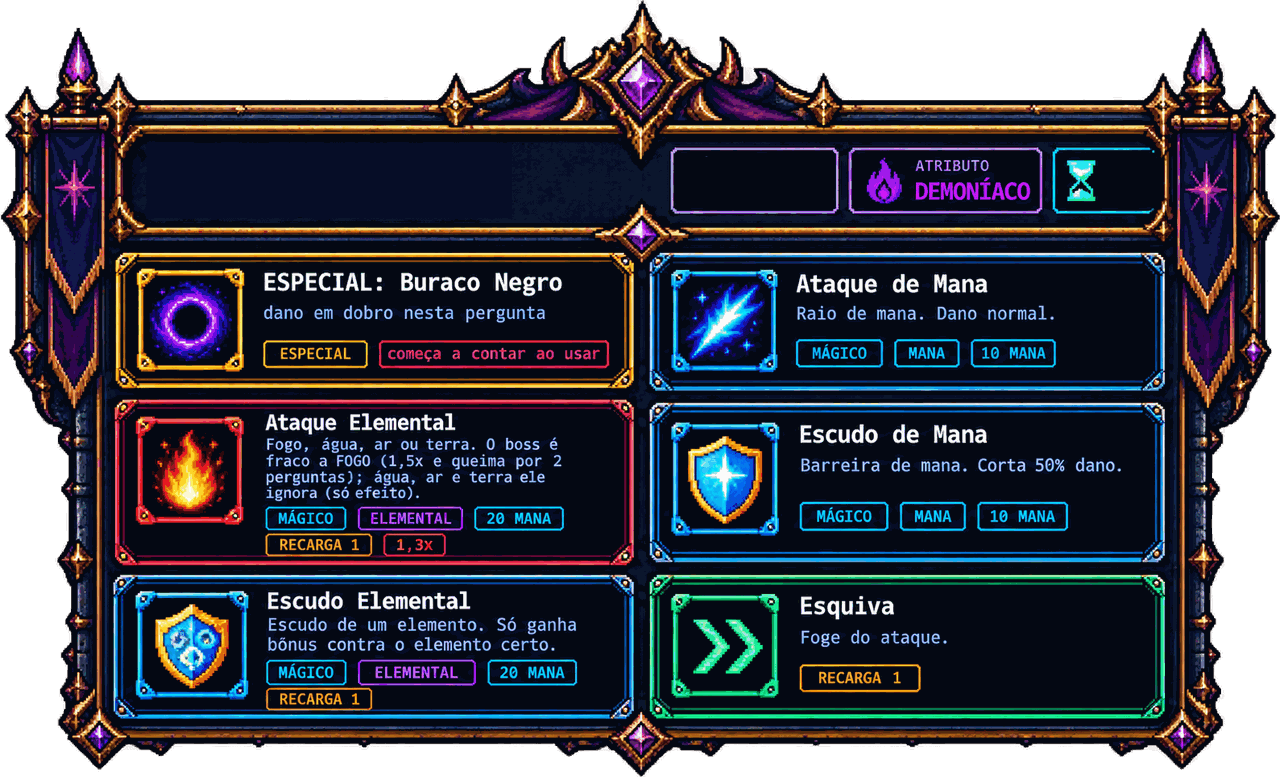
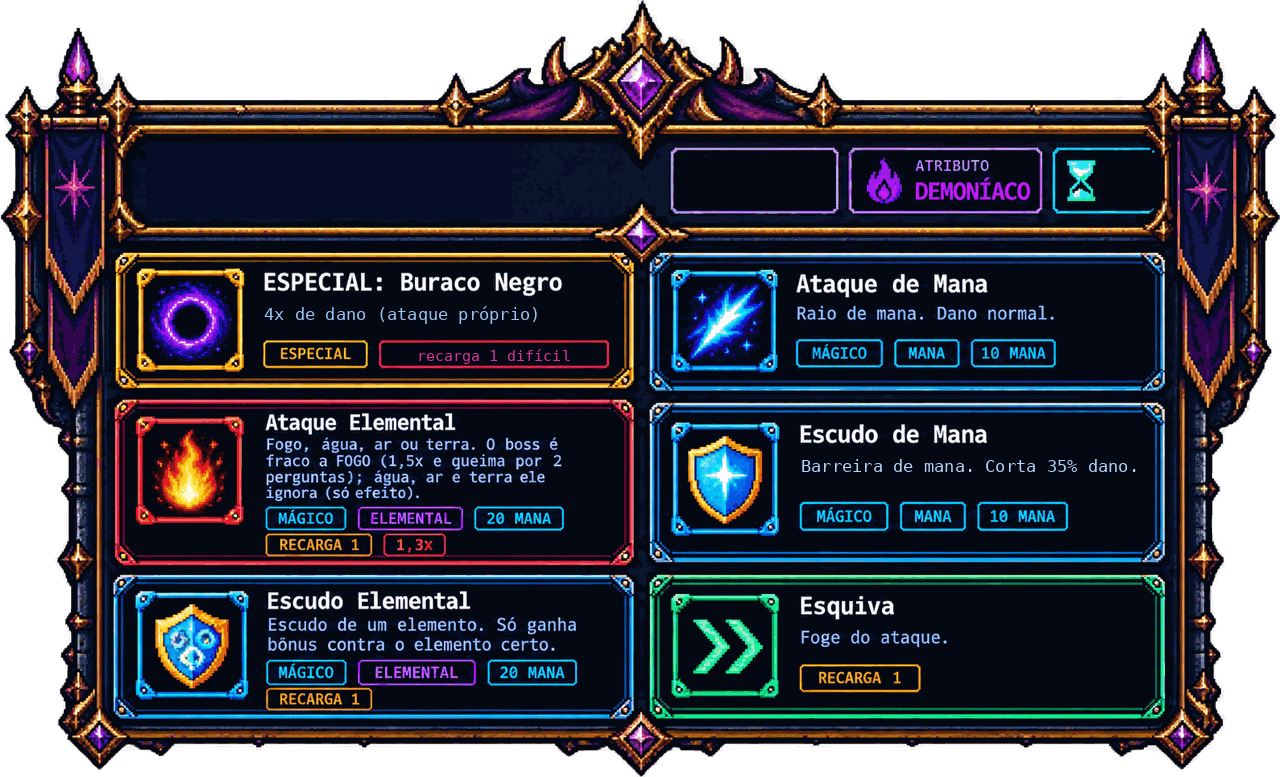
v93: niveis de dano/defesa por classe, Buraco Negro 4x, textos dos menus atualizados, boss 700
Claude-Session: https://claude.ai/code/session_01YFC38PcyDKAfPNhJ7r1cKG

Changed region(s): [[0.2188, 0.3707, 0.4688, 0.4633], [0.625, 0.5869, 0.875, 0.6178]]

diff --git a/sw.js b/sw.js
@@ -1,4 +1,4 @@
-const CACHE='bd1-rpg-v92';
+const CACHE='bd1-rpg-v93';
 const ASSETS=['./','./index.html','./game.html','./lobby.js','./bag_panel.png','./bag_button.png','./menu_meta.js','./menu_assassin.png','./menu_mage.png','./menu_knight.png','./menu_tank.png','./menu_elem.png','./icon_tipo_sword.png','./lobby.css','./select_plate.webp','./char_mage.webp','./char_knight.webp','./char_tank.webp','./char_assassin.webp','./panel_mage.webp','./panel_knight.webp','./panel_tank.webp','./panel_assassin.webp','./style.css','./app.js','./anim.js','./mage.js','./cleric.js','./tank.js','./knight.js','./boss.js','./boss/meta.json','./boss/B_1.png','./boss/B_2.png','./boss/B_3.png','./boss/B_4.png','./boss/B_5.png','./boss/B_6.png','./boss/B_7.png','./boss/B_8.png','./boss/B_9.png','./boss/B_10.png','./boss/B_11.png','./boss/B_12.png','./fxsoft.js','./knight/K1_1.png','./knight/K1_10.png','./knight/K1_11.png','./knight/K1_13.png','./knight/K1_14.png','./knight/K1_15.png','./knight/K1_19.png','./knight/K1_2.png','./knight/K1_20.png','./knight/K1_21.png','./knight/K1_22.png','./knight/K1_23.png','./knight/K1_24.png','./knight/K1_25.png','./knight/K1_26.png','./knight/K1_27.png','./knight/K1_28.png','./knight/K1_29.png','./knight/K1_30.png','./knight/K1_31.png','./knight/K1_32.png','./knight/K1_35.png','./knight/K1_37.png','./knight/K1_4.png','./knight/K1_41.png','./knight/K1_42.png','./knight/K1_44.png','./knight/K1_45.png','./knight/K1_46.png','./knight/K1_49.png','./knight/K1_5.png','./knight/K1_6.png','./knight/K1_7.png','./knight/K1_8.png','./knight/K1_9.png','./knight/K2_10.png','./knight/K2_11.png','./knight/K2_13.png','./knight/K2_14.png','./knight/K2_15.png','./knight/K2_16.png','./knight/K2_17.png','./knight/K2_18.png','./knight/K2_19.png','./knight/K2_2.png','./knight/K2_20.png','./knight/K2_21.png','./knight/K2_22.png','./knight/K2_23.png','./knight/K2_24.png','./knight/K2_25.png','./knight/K2_26.png','./knight/K2_28.png','./knight/K2_29.png','./knight/K2_3.png','./knight/K2_30.png','./knight/K2_32.png','./knight/K2_33.png','./knight/K2_34.png','./knight/K2_35.png','./knight/K2_37.png','./knight/K2_38.png','./knight/K2_39.png','./knight/K2_4.png','./knight/K2_41.png','./knight/K2_42.png','./knight/K2_43.png','./knight/K2_44.png','./knight/K2_45.png','./knight/K2_46.png','./knight/K2_5.png','./knight/K2_6.png','./knight/K2_7.png','./knight/K2_8.png','./knight/K2_9.png','./knight/K3_1.png','./knight/K3_10.png','./knight/K3_11.png','./knight/K3_12.png','./knight/K3_13.png','./knight/K3_14.png','./knight/K3_15.png','./knight/K3_16.png','./knight/K3_17.png','./knight/K3_18.png','./knight/K3_2.png','./knight/K3_20.png','./knight/K3_21.png','./knight/K3_22.png','./knight/K3_23.png','./knight/K3_24.png','./knight/K3_25.png','./knight/K3_26.png','./knight/K3_27.png','./knight/K3_28.png','./knight/K3_29.png','./knight/K3_3.png','./knight/K3_30.png','./knight/K3_31.png','./knight/K3_32.png','./knight/K3_33.png','./knight/K3_34.png','./knight/K3_35.png','./knight/K3_36.png','./knight/K3_37.png','./knight/K3_38.png','./knight/K3_39.png','./knight/K3_4.png','./knight/K3_40.png','./knight/K3_41.png','./knight/K3_42.png','./knight/K3_43.png','./knight/K3_44.png','./knight/K3_45.png','./knight/K3_46.png','./knight/K3_47.png','./knight/K3_48.png','./knight/K3_5.png','./knight/K3_6.png','./knight/K3_7.png','./knight/K3_8.png','./knight/K3_9.png','./knight/fx_ice.png','./knight/fx_rocksA.png','./knight/fx_rock1.png','./knight/fx_rock2.png','./knight/fx_rock3.png','./knight/fx_rock4.png','./knight/fx_slash.png','./knight/meta.json','./clr/at1.png','./clr/at2.png','./clr/at3.png','./clr/bg1.png','./clr/bg2.png','./clr/bg3.png','./clr/bg4.png','./clr/bp1.png','./clr/bp2.png','./clr/bp3.png','./clr/br1.png','./clr/br2.png','./clr/br3.png','./clr/br4.png','./clr/br5.png','./clr/br6.png','./clr/bt1.png','./clr/bt2.png','./clr/bt3.png','./clr/bt4.png','./clr/d1.png','./clr/d2.png','./clr/d3.png','./clr/d4.png','./clr/dg1.png','./clr/dg2.png','./clr/dg3.png','./clr/dn1.png','./clr/dn2.png','./clr/dn3.png','./clr/ds1.png','./clr/ex1.png','./clr/fx_aura.png','./clr/fx_burst.png','./clr/fx_cross1.png','./clr/fx_lotus.png','./clr/fx_pillar.png','./clr/fx_pillar2.png','./clr/fx_ring1.png','./clr/fx_ring2.png','./clr/fx_ring3.png','./clr/fx_star1.png','./clr/fx_star2.png','./clr/fx_star3.png','./clr/fx_star4.png','./clr/fx_streak1.png','./clr/fx_streak2.png','./clr/fx_streak3.png','./clr/fx_sunstar.png','./clr/hat1.png','./clr/hat2.png','./clr/idle1.png','./clr/meta.json','./clr/pr1.png','./clr/pr2.png','./clr/stf.png','./clr/ult1.png','./clr/ult2.png','./clr/v1.png','./clr/v2.png','./mage3/air.png','./mage3/atk1.png','./mage3/atk2.png','./mage3/atk3.png','./mage3/bh1.png','./mage3/bh2.png','./mage3/castdef.png','./mage3/defair.png','./mage3/defearth.png','./mage3/deffire.png','./mage3/defmana.png','./mage3/defwater.png','./mage3/dodge1.png','./mage3/dodge2.png','./mage3/dodge3.png','./mage3/dodge4.png','./mage3/earth.png','./mage3/fire.png','./mage3/fx_air_swirl.png','./mage3/fx_bh_big.png','./mage3/fx_bh_big2.png','./mage3/fx_bh_small.png','./mage3/fx_bh_spikes.png','./mage3/fx_bolt.png','./mage3/fx_comet.png','./mage3/fx_cross.png','./mage3/fx_crystal.png','./mage3/fx_earth_spikes.png','./mage3/fx_fire_fall.png','./mage3/fx_mana_aura.png','./mage3/fx_orb_blue.png','./mage3/fx_orb_orange.png','./mage3/fx_orb_red.png','./mage3/fx_orbb.png','./mage3/fx_ring_floor.png','./mage3/fx_rock.png','./mage3/fx_rocks.png','./mage3/fx_star_big.png','./mage3/fx_star_small.png','./mage3/fx_water_pillar.png','./mage3/fx_whirl.png','./mage3/idle1.png','./mage3/idle2.png','./mage3/idle3.png','./mage3/idle4.png','./mage3/meta.json','./mage3/spin1.png','./mage3/spinwide.png','./mage3/stars.png','./mage3/swingf.png','./mage3/swingl.png','./mage3/swingr.png','./mage3/water.png','./anim/manifest.json','./spr_mage.webp','./spr_knight.webp','./spr_tank.webp','./spr_assassin.webp','./spr_boss.webp','./game_clean.png','./game_nohud.png','./hud_mage.png','./hud_knight.png','./hud_tank.png','./hud_assassin.png','./question_panel.png','./icon_attack.png','./icon_coin.png','./manifest.webmanifest','./potion_hp.png','./potion_mana.png','./tank/a_bub.png','./tank/a_cr.png','./tank/a_dust.png','./tank/a_hh.png','./tank/a_i1.png','./tank/a_i2.png','./tank/a_lo.png','./tank/a_rd.png','./tank/a_rl1.png','./tank/a_rl2.png','./tank/a_s1.png','./tank/a_s2.png','./tank/a_sw.png','./tank/a_swl.png','./tank/d_a1.png','./tank/d_a2.png','./tank/d_a3.png','./tank/d_a4.png','./tank/d_e1.png','./tank/d_e2.png','./tank/d_e3.png','./tank/d_e4.png','./tank/d_f1.png','./tank/d_f2.png','./tank/d_f3.png','./tank/d_h1.png','./tank/d_h2.png','./tank/d_h3.png','./tank/d_h4.png','./tank/d_i1.png','./tank/d_i2.png','./tank/d_i3.png','./tank/d_m1.png','./tank/d_m2.png','./tank/d_m3.png','./tank/d_m4.png','./tank/d_p1.png','./tank/d_p3.png','./tank/d_u1.png','./tank/d_u2.png','./tank/fx_bring.png','./tank/fx_bspike.png','./tank/fx_earth.png','./tank/fx_rockburst.png','./tank/meta.json','./tank/n1.png','./tank/n2.png','./tank/n3.png','./tank/p1.png','./tank/tA.png','./tank/tB.png','./tank/tC.png','./tank/v1.png','./tank/v2.png','./tank/v3.png','./tank/v4.png'];
 // Tudo em cache (abre instantâneo, até offline). Em segundo plano o SW confere a rede (requisição condicional, barata);
 // se algum arquivo mudou, atualiza o cache e avisa a página, que recarrega sozinha (menu) ou mostra o aviso (jogo).

diff --git a/app.js b/app.js
@@ -34,18 +34,20 @@ const ITEMS = {
 const HERO_ORDER = ['mage','knight','tank','assassin'];
 const HERO_COLOR = {mage:'#4d8dff', knight:'#d9e6ff', tank:'#ff9d3d', assassin:'#ff3d5c'};
 const HERO_X = {mage:10.3, knight:33.2, tank:63.5, assassin:89.7};   // centro do herói (% da largura)
-const BOSS_MAX_HP = 650, HERO_MAX_HP = 100;
+const BOSS_MAX_HP = 700, HERO_MAX_HP = 100;
+// Dano base por herói: Cleriga baixo, Maga/Tanque médio, Guerreiro alto. Fraqueza certa (fogo da Maga) = alto; Buraco Negro = extremamente alto.
+const HERO_BASE = {mage:14, knight:21, tank:14, assassin:10};
 const ATTACK_DAMAGE = 14;          // dano do ataque básico (quando acertou a pergunta)
 const DEFEND_REDUCTION = 0.5;      // defesa reduz o dano pela metade
 const RAGE_MAX = 5, RAGE_DODGE = 1, RAGE_WASTED = 5;   // fúria: esquivar após errar +1; defender/esquivar após ACERTAR +5 (enche)
 const QUESTION_SECONDS = {1:25, 2:30, 3:35}, ACTION_SECONDS = 25;   // tempo para responder: fácil 25s, média 30s, difícil 35s
 const ULT_NAME = {mage:'Buraco Negro', knight:'Berserk', tank:'Provocação', assassin:'Luz Sagrada'};
 const ULT_ICON = {mage:'orb', knight:'sword2', tank:'hammer2', assassin:'cross'};
-const ULT_INFO = {mage:'dano direto de 3,5x o dano base no boss; recarga: não volta na próxima pergunta difícil, só na seguinte (se acertarem)', knight:'ataca mesmo errando, com 1,5x de dano, e leva menos dano por 2 perguntas', tank:'todo o dano do boss vai nele (inclusive metade da Onda Sombria dos aliados), com defesa dobrada, por 2 perguntas', assassin:'revive ou cura um herói'};
+const ULT_INFO = {mage:'dano direto de 4x o dano base no boss; recarga: não volta na próxima pergunta difícil, só na seguinte (se acertarem)', knight:'ataca mesmo errando, com 1,5x de dano, e leva menos dano por 2 perguntas', tank:'todo o dano do boss vai nele (inclusive metade da Onda Sombria dos aliados), com defesa dobrada, por 2 perguntas', assassin:'revive ou cura um herói'};
 // ===== Habilidades especiais do boss (cada uma tem aviso na tela e uma resposta dos heróis) =====
 const PREP_CHANCE = .2, PREP_MULT = 1.5;                // Preparando Habilidade: sorteada (1 em 5 rodadas); a rodada seguinte tem golpes +50% (defender corta pela metade)
 const TELE_CHANCE = 1 / 6, TELE_FROM = 4, TELE_DMG = 20, STUN_MULT = 1.25;   // Teleporte: depois da rodada 4; ESQUIVA anula e atordoa o boss (+25% de dano nele na rodada)
-const BH_MULT = 3.5;   // Buraco Negro: dano próprio de 3,5x o dano base (como o fogo dá 1,5x)
+const BH_MULT = 4;   // Buraco Negro: dano próprio de 4x o dano base da Maga (56)
 const THRUST_CD = 3, TELE_CD = 2;   // recarga em perguntas (contando a do uso): Estocada fica 2 perguntas sem sair, Teleporte 1
 const THRUST_DMG = 24, ENRAGE_AOE = 2;                  // Estocada (ignora Provocação/Proteção); Enfurecer: Onda Sombria +2
 const HERO_WX = k => HERO_X[k] * 10.24;                 // x do herói no mundo 1024x1536
@@ -77,8 +79,8 @@ const SKILLS = {
   mage:[
     {id:'mana_atk', kind:'atk', name:'Ataque de Mana', desc:'Raio de mana. Dano normal.', mana:10, cd:0, mult:1},
     {id:'elem_atk', kind:'atk', name:'Ataque Elemental', desc:'Fogo, água, ar ou terra. O boss é fraco a FOGO (1,5x e queima por 2 perguntas); água, ar e terra ele ignora (só efeito).', mana:20, cd:1, mult:1.3, elem:true},
-    {id:'mana_def', kind:'def', name:'Escudo de Mana', desc:'Barreira de mana. Corta 50% do dano.', mana:10, cd:0, reduce:.5},
-    {id:'elem_def', kind:'def', name:'Escudo Elemental', desc:'Escudo de um elemento. Só ganha bônus contra o elemento certo.', mana:20, cd:1, reduce:.5, bonus:.65, elem:true},
+    {id:'mana_def', kind:'def', name:'Escudo de Mana', desc:'Barreira de mana. Corta 35% do dano.', mana:10, cd:0, reduce:.35},
+    {id:'elem_def', kind:'def', name:'Escudo Elemental', desc:'Escudo de um elemento. Só ganha bônus contra o elemento certo.', mana:20, cd:1, reduce:.35, bonus:.55, elem:true},
     {id:'dodge', kind:'dodge', name:'Esquiva', desc:'Foge do ataque.', mana:0, cd:1}
   ],
   knight:[
@@ -92,7 +94,7 @@ const SKILLS = {
     {id:'atk', kind:'atk', name:'Ataque Normal', desc:'Golpe de martelo. Dano normal.', mana:0, cd:0, mult:1},
     {id:'super', kind:'atk', name:'Ataque Super Pesado', desc:'2x o dano normal e deixa o boss desnorteado na pergunta seguinte (+25% de dano nele, sem habilidades especiais).', mana:20, cd:3, mult:2},
     {id:'guard', kind:'util', name:'Proteção Específica', desc:'Escudo sobre 1 herói: o dano dele vai para o Tanque, com 40% a menos.', mana:20, cd:2, target:true},
-    {id:'def', kind:'def', name:'Defesa', desc:'Ergue o escudo. Corta 50% do dano.', mana:0, cd:0, reduce:.5},
+    {id:'def', kind:'def', name:'Defesa', desc:'Ergue o escudo. Corta 65% do dano.', mana:0, cd:0, reduce:.65},
     {id:'dodge', kind:'dodge', name:'Esquiva', desc:'Foge do ataque.', mana:0, cd:1}
   ],
   assassin:[
@@ -589,7 +591,7 @@ async function activateUlt(k){
   showBanner(`${GROUPS[k]}: ${ULT_NAME[k].toUpperCase()}!`, note);
   const tx = cleTarget ? HERO_X[cleTarget] / 100 * 1024 : null;
   const ultPl = A.play(k, 'ult', cleTarget ? {tx, ty:1098} : {}); A.sayRandom(k, 'ult', 1);
-  if (k === 'mage') { await wait(3000); await heroAttack(k, Math.round(ATTACK_DAMAGE * BH_MULT), '#b36bff', true); state.ultCd.mage = 1; }
+  if (k === 'mage') { await wait(3000); await heroAttack(k, Math.round(HERO_BASE.mage * BH_MULT), '#b36bff', true); state.ultCd.mage = 1; }
   else if (k === 'knight') { b.bers = 2; b.tired = 0; }
   else if (k === 'tank') b.taunt = 2;
   else {
@@ -772,7 +774,7 @@ async function playRound(){
         const t = act.target; sub = `passou a vez para ${GROUPS[t]}`;
         showBanner(`${nm}: ${sk.name}`, sub); await wait(1100);
         A.play(k, 'pass'); A.sayRandom(k, 'pass', .6);
-        if (correct[t] && state.heroes[t].hp > 0) { showRing(t); await doAttack(t, 'melee', null, Math.round(ATTACK_DAMAGE * 1.5)); } else floatText(HERO_X[t], 56, 'ERROU!', '#ff6b81');
+        if (correct[t] && state.heroes[t].hp > 0) { showRing(t); await doAttack(t, 'melee', null, Math.round(HERO_BASE[t] * 1.5)); } else floatText(HERO_X[t], 56, 'ERROU!', '#ff6b81');
         renderHud(); await wait(700); hideBanner(); hideRing();
         if (state.bossHp <= 0) return endGame(true);
         continue;
@@ -780,7 +782,7 @@ async function playRound(){
       if (sk.kind === 'atk') {
         const bers = k === 'knight' && state.buff.bers > 0;
         if (ok || bers) {
-          dmg = Math.round(ATTACK_DAMAGE * sk.mult); sub = ok ? 'acertou e atacou!' : 'errou, mas o Berserk atacou!';
+          dmg = Math.round(HERO_BASE[k] * sk.mult); sub = ok ? 'acertou e atacou!' : 'errou, mas o Berserk atacou!';
           if (sk.elem && el && BOSS.immune.includes(el)) { dmg = 0; sub = `${ELEMENTS[el].name}: o boss é IMUNE!`; }
           else if (sk.elem && el && BOSS.weak.includes(el)) { dmg = Math.round(dmg * BOSS_WEAK_MULT); state.burn = BURN_TURNS; sub += ` ${ELEMENTS[el].name}: o boss é FRACO! ${String(BOSS_WEAK_MULT).replace('.', ',')}x e fica QUEIMANDO por ${BURN_TURNS} perguntas.`; }
           else if (sk.elem && el) { const r = applyMark(el); if (r) { dmg += r.dmg; sub += ` ${r.name}! +${r.dmg}`; if (r.rage) state.rage = Math.max(0, state.rage + r.rage); } else sub += ` Marca de ${ELEMENTS[el].name.toLowerCase()}.`; }

diff --git a/tools/sim_boss.py b/tools/sim_boss.py
@@ -1,13 +1,14 @@
 # Simulador Monte-Carlo do combate (espelha as regras de app.js). Uso: python3 tools/sim_boss.py [N]
 import random, sys, statistics as st
-P = dict(boss_hp=650, prep=.2, prep_mult=1.5, tele=1/6, tele_from=4, tele_dmg=20, stun=1.25, thrust=24, enr_aoe=2, new=True, hard_acc=-.2, easy_acc=.12)
+P = dict(boss_hp=700, prep=.2, prep_mult=1.5, tele=1/6, tele_from=4, tele_dmg=20, stun=1.25, thrust=24, enr_aoe=2, new=True, hard_acc=-.2, easy_acc=.12)
 DIFF = {1:(18,3), 2:(32,5), 3:(50,9)}
 SK = {
- 'mage':[('mana_atk','atk',10,0,1),('elem_atk','atk',20,1,1.3),('mana_def','def',10,0,.5),('elem_def','def',20,1,.5),('dodge','dodge',0,1,0)],
+ 'mage':[('mana_atk','atk',10,0,1),('elem_atk','atk',20,1,1.3),('mana_def','def',10,0,.35),('elem_def','def',20,1,.55),('dodge','dodge',0,1,0)],
  'knight':[('atk','atk',0,0,1),('heavy','atk',15,1,1.5),('def','def',0,0,.5),('dodge','dodge',0,1,0)],
- 'tank':[('atk','atk',0,0,1),('super','atk',20,3,2),('guard','util',20,2,0),('def','def',0,0,.5),('dodge','dodge',0,1,0)],
+ 'tank':[('atk','atk',0,0,1),('super','atk',20,3,2),('guard','util',20,2,0),('def','def',0,0,.65),('dodge','dodge',0,1,0)],
  'assassin':[('atk','atk',0,0,1),('holy_atk','atk',20,1,1.5),('def','def',0,0,.5),('holy_def','def',20,1,.75),('dodge','dodge',0,1,0)],
 }
+BASE = {'mage':14,'knight':21,'tank':14,'assassin':10}
 ORDER = ['mage','knight','tank','assassin']
 def game(acc, rng, policy, p=P):
     hp = {k:100 for k in ORDER}; mp = {k:100 for k in ORDER}; cd = {k:{} for k in ORDER}
@@ -48,7 +49,7 @@ def game(acc, rng, policy, p=P):
                     if tg: t = tg[0]; (hp.__setitem__(t, 35) if hp[t] <= 0 else hp.__setitem__(t, min(100, hp[t] + 25))); ult[k] = False
                 else:
                     ult[k] = False
-                    if k == 'mage': boss -= 49; mcd = 1
+                    if k == 'mage': boss -= 56; mcd = 1
                     if k == 'knight': bers = 2; tired = 0
                     if k == 'tank': taunt = 2
             av = [s for s in SK[k] if cd[k].get(s[0], 0) <= 0 and mp[k] >= s[2]]
@@ -86,7 +87,7 @@ def game(acc, rng, policy, p=P):
                 if not ok[k]: hurt = base
             elif s[1] == 'atk':
                 if ok[k] or (k == 'knight' and bers > 0):
-                    dealt = 14 * s[4]
+                    dealt = BASE[k] * s[4]
                     if s[0] == 'elem_atk':
                         if policy == 'smart': dealt *= 1.5; burn = 2
                         else:

diff --git a/tools/patch_menu_text.py b/tools/patch_menu_text.py
@@ -1,0 +1,29 @@
+# Regrava linhas de texto desenhadas nos menus (menu_*.png) que mudaram de regra. Roda uma vez sobre os PNGs atuais.
+import numpy as np
+from PIL import Image, ImageDraw, ImageFont
+FONT = '/usr/share/fonts/truetype/dejavu/DejaVuSansMono.ttf'
+def patch(name, box, new, size=None, center=False, fgmin=120):
+    im = Image.open(f'menu_{name}.png').convert('RGBA'); a = np.array(im)
+    x0, y0, x1, y1 = box; reg = a[y0:y1, x0:x1, :3].astype(int)
+    bg = np.array(np.median(np.concatenate([reg[:2].reshape(-1,3), reg[-2:].reshape(-1,3)]), axis=0), dtype=np.uint8)
+    lum = reg.sum(2); fg_mask = lum > lum.min() + 200
+    ys, xs = np.where(fg_mask); tx0, tx1, ty0, ty1 = xs.min() + x0, xs.max() + x0 + 1, ys.min() + y0, ys.max() + y0 + 1
+    sel = reg[fg_mask]; fg = tuple(int(v) for v in np.median(sel[sel.sum(1) > np.percentile(sel.sum(1), 60)], axis=0))
+    h = ty1 - ty0; old_w = tx1 - tx0
+    a[y0:y1, x0:x1, :3] = bg
+    im = Image.fromarray(a); d = ImageDraw.Draw(im)
+    # tamanho: casa a largura por caractere do texto original (mono ~0.602*size)
+    sz = size or 17
+    f = ImageFont.truetype(FONT, sz)
+    bb = d.textbbox((0, 0), new, font=f)
+    px = (x0 + x1) // 2 - (bb[2] - bb[0]) // 2 if center else tx0
+    py = (ty0 + ty1) // 2 - (bb[3] + bb[1]) // 2 + 1
+    d.text((px, py), new, font=f, fill=fg + (255,))
+    im.save(f'menu_{name}.png'); print(name, new, (tx0, ty0, tx1, ty1), fg, sz)
+import sys
+patch('mage', (262, 302, 590, 326), '4x de dano (ataque próprio)', 17)
+patch('mage', (386, 346, 603, 364), 'recarga 1 difícil', 15, center=True)
+patch('mage', (795, 454, 1140, 477), 'Barreira de mana. Corta 35% dano.', 17)
+patch('tank', (270, 596, 620, 620), 'Ergue o escudo. Corta 65% do dano.', 16)
+patch('tank', (270, 446, 600, 468), '2x o dano; desnorteia o boss.', 16)
+patch('tank', (468, 490, 550, 506), 'RECARGA 3', 14, center=True)

diff --git a/README.md b/README.md
@@ -337,3 +337,4 @@ Guerreiro: âncora das poses trocada (centro do corpo azul + chão por percentil
 - v88: Estocada com recarga de 2 perguntas, Teleporte 1; Buraco Negro = 3x o dano base (sem duração); Super Pesado do Tanque (recarga 3) desnorteia o boss na pergunta seguinte (+25% de dano nele, sem habilidades especiais). Vida do boss 630 (tools/sim_boss.py: grupo de 60% vence ~57%, ~13 rodadas).
 - v92: Buraco Negro = ataque próprio de 3,5x o dano base (49), recarga: pula a próxima pergunta difícil; tempo esgotado no menu de elementos = sem ação; vida do boss 650.
 - Teste: ?teste=1&grupo=x; window.__force='prep'|'tele' força o evento.
+- v93: dano base por herói (Clériga 10, Maga/Tanque 14, Guerreiro 21; Buraco Negro 4x = 56), defesa Maga 35% / Guerreiro e Clériga 50% / Tanque 65%; vida do boss 700; textos dos menus regravados (tools/patch_menu_text.py).
